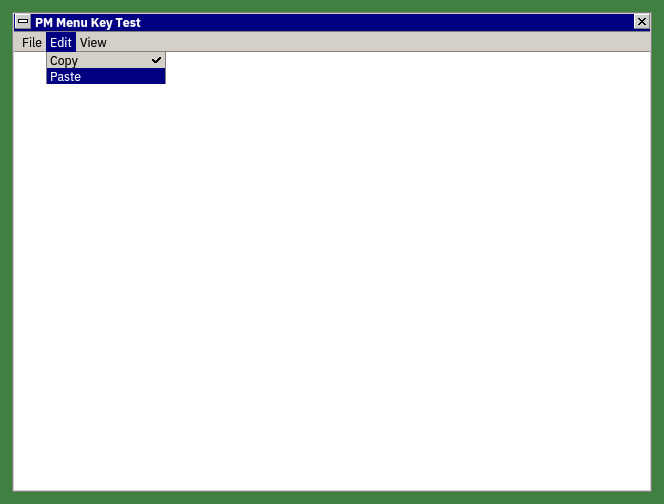
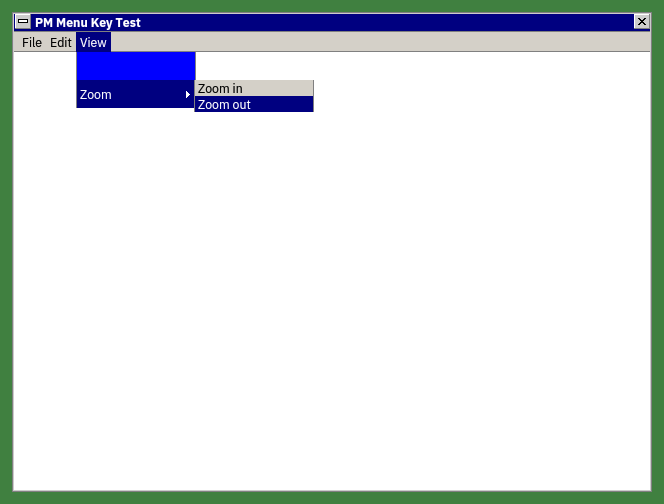
docs(readme): the menu cascade and the circular slider; counts
Claude-Session: https://claude.ai/code/session_01Ux2KKr7puFgrPeFJFk22fL

Changed region(s): [[0.0602, 0.0595, 0.4819, 0.2381]]

diff --git a/README.md b/README.md
@@ -26,10 +26,10 @@ Warpine runs 32-bit OS/2 (LX format) and 16-bit OS/2 1.x (NE format) programs na
 
 | | |
 |---|---|
-| ![PM Menu Key Test window in the classic theme: Edit highlighted in the menu bar (File, Edit, View) and its pull-down dropped, Copy with a check mark at the right and Paste highlighted](doc/screenshots/pm_menukey.png) | ![PM Message Box Test window with an inactive title bar behind a "Message Box Test" box: an information icon, two lines of text and an OK button; the box has a close button but no system menu](doc/screenshots/pm_msgbox.png) |
-| **The menu bar from the keyboard.** F10 started menu mode, Right went to *Edit*, Down dropped its pull-down and moved to *Paste*. *Copy* is checked with `WinCheckMenuItem`; the program hears `WM_INITMENU`, `WM_MENUSELECT` and `WM_MENUEND`, and sizes its owner-drawn *View* item with `WM_MEASUREITEM`. | **Message boxes.** `WinMessageBox` with the information icon over its disabled owner. Without `MB_MOVEABLE` a box has no system menu and stays put; `WinMessageBox2` adds the program's own buttons and icon, and non-modal boxes. |
-| ![PM Built-in Controls Test window: a static label, a Click Me push button, an entry field reading ">>initial textHello, Wörld!", a vertical scroll bar, an empty list box and a multi-line field showing "Line one" and "three" with a caret after "three"](doc/screenshots/pm_controls_typing.png) | ![PM Slider / Value Set Test window: a horizontal slider with a 0 to 5 scale, arrow buttons, a blue ribbon strip and its arm on a detent; a half-filled progress slider; a slider with a red owner-drawn arm; a vertical slider with buttons and ticks; a grid of eight colour items with red selected; a row of value set items with blue selected and an owner-drawn yellow item; and text items Three (selected), a greyed Two and One](doc/screenshots/pm_slider_valueset.png) |
-| **Built-in controls and typing.** The entry field was clicked and typed into (`Hello, Wörld!` at the end, then *Home* and `>>` at the start); in the multi-line field, Enter after "Line one" and `three` started a new line. | **Sliders and value sets.** A scripted session clicked the shaft, dragged the arm, pressed a button and the arrow keys, and Shift+Right moved the arm to a detent; the red arm is drawn by the owner. In the value sets, clicks and keys selected items; "Two" is disabled. |
+| ![PM Menu Key Test window: View highlighted in the menu bar, its pull-down dropped with an owner-drawn blue swatch and a highlighted Zoom row with an arrow, and Zoom's cascade open to the right of it with Zoom in and, highlighted, Zoom out](doc/screenshots/pm_menukey.png) | ![PM Message Box Test window with an inactive title bar behind a "Message Box Test" box: an information icon, two lines of text and an OK button; the box has a close button but no system menu](doc/screenshots/pm_msgbox.png) |
+| **Menus from the keyboard, with a cascade.** F10 started menu mode, Left went to *View*, Down dropped its pull-down (an owner-drawn swatch sized with `WM_MEASUREITEM`), Down and Right opened *Zoom*'s cascade beside its row and Down moved to *Zoom out*. The program hears `WM_INITMENU` for each pull-down and cascade, `WM_MENUSELECT` and `WM_MENUEND`. | **Message boxes.** `WinMessageBox` with the information icon over its disabled owner. Without `MB_MOVEABLE` a box has no system menu and stays put; `WinMessageBox2` adds the program's own buttons and icon, and non-modal boxes. |
+| ![PM Built-in Controls Test window: a static label, a Click Me push button, an entry field reading ">>initial textHello, Wörld!", a vertical scroll bar, an empty list box and a multi-line field showing "Line one" and "three" with a caret after "three"](doc/screenshots/pm_controls_typing.png) | ![PM Circular Slider Test window with two round dials: Volume showing 45, its knob at the right, a heavier edge because it has the focus, tick marks, minus and plus buttons at its lower corners and its caption under it; Heading showing 180, its knob at the bottom, tick marks all around and a caption, without buttons](doc/screenshots/pm_circslider.png) |
+| **Built-in controls and typing.** The entry field was clicked and typed into (`Hello, Wörld!` at the end, then *Home* and `>>` at the start); in the multi-line field, Enter after "Line one" and `three` started a new line. | **Circular sliders.** `WC_CIRCULARSLIDER` dials turned in a scripted session: Volume (range 0–50, steps of 5) with Right, Page Up, End and its − / + buttons; Heading (`CSS_360`, `CSS_POINTSELECT`) with a press and a drag. The owner hears `CSN_TRACKING`, `CSN_CHANGED` and `CSN_SETFOCUS`. |
 | ![The "Container trees and grids" window: on the left a tree view with dotted tree lines, a folder "Alpha" with Gamma, A1 and A2 (expanded, holding A21), an expanded "Beta" with items b01 to b11 and a vertical scroll bar; on the right an icon view with six page icons, One, Two, Three, Four, Five and Under, laid out on a grid](doc/screenshots/pm_cnrgrid.png) | ![PM Font Test window: lines in IBM Plex Sans, Sans Bold, Mono, Serif Italic 24 and Serif Bold Italic 32, then Japanese, simplified and traditional Chinese and Korean lines and a 24-px mixed line, each underlined in red](doc/screenshots/pm_font_test.png) |
 | **Container trees and grids.** `WC_CONTAINER` in the tree view with tree lines and expanders (`CA_TREELINE`), and in the icon view arranged on a grid (`CM_SETGRIDINFO`, `CMA_ARRANGEGRID`). Context menus (`WM_CONTEXTMENU`) and the mouse wheel reach containers too. | **Typography.** Presentation Manager text is drawn in the embedded IBM Plex families: fonts chosen with `GpiCreateLogFont` (face, bold, italic, size) and CJK text in four DBCS codepages. The red rules are the widths reported by `GpiQueryTextBox`. |
 | ![The built-in CMD.EXE in a "Warpine — CMD.EXE" frame on the PM desktop: ver naming version 0.0.13, mkdir PROJECTS, echo … > HELLO.TXT, a dir listing showing PROJECTS and the 33-byte HELLO.TXT on drive C:, and type HELLO.TXT printing "Hello from the built-in CMD.EXE"](doc/screenshots/cmd_window.png) |   |
@@ -48,14 +48,14 @@ Warpine runs 32-bit OS/2 (LX format) and 16-bit OS/2 1.x (NE format) programs na
 - **More GPI** — rounded box corners, line ends and joins, scaled line widths, rotated glyphs and images under transforms, palettes, and drawing through a child window's presentation space are not implemented.
 - **Games and video** — DIVE (direct framebuffer blitting) and OpenGL are not implemented yet; the spooler reports no printers.
 
-_Screenshots captured from uncommitted changes on top of `3a1433d` on 2026-11-23 (the menu and modern-theme ones; the others from uncommitted changes on top of `848a01b`); the text window at the top from uncommitted changes on top of `8f820e1` on 2026-11-20._
+_The menu and circular-slider screenshots captured from commit `0f27fce` on 2026-11-23, the modern-theme one from uncommitted changes on top of `3a1433d` and the others from uncommitted changes on top of `848a01b`; the text window at the top from uncommitted changes on top of `8f820e1` on 2026-11-20._
 <!-- screenshots:end -->
 
 ## Key Features
 
 - **LX Executable Parser:** Full support for LX headers, object tables, page maps, fixups, resource tables, import tables, entry tables, and non-resident names tables.
 - **KVM Hypervisor:** Custom VMM executing 32-bit OS/2 code at native speed via hardware-accelerated virtualization.
-- **API Thunking:** System call interception via `INT 3` traps bridging guest OS/2 calls to host Rust implementations. Covers DOSCALLS, QUECALLS, PMWIN, PMGPI, KBDCALLS, VIOCALLS, MOUCALLS, NLS, MSG, MDM (MMPM/2), UCONV, SO32DLL, TCP32DLL, PMSHAPI, HELPMGR, PMSPL, PMCTLS, PMDRAG, SOM, REXX / REXXAPI and PMWP's window positions, plus Warpine's own WARPINE.DLL — 887 entry points in all (`--compat` lists them).
+- **API Thunking:** System call interception via `INT 3` traps bridging guest OS/2 calls to host Rust implementations. Covers DOSCALLS, QUECALLS, PMWIN, PMGPI, KBDCALLS, VIOCALLS, MOUCALLS, NLS, MSG, MDM (MMPM/2), UCONV, SO32DLL, TCP32DLL, PMSHAPI, HELPMGR, PMSPL, PMCTLS, PMDRAG, SOM, REXX / REXXAPI and PMWP's window positions, plus Warpine's own WARPINE.DLL — 894 entry points in all (`--compat` lists them).
 - **DLL Loader Chain:** Runtime dynamic loading via `DosLoadModule` / `DosQueryProcAddr` / `DosQueryModuleHandle`. User DLLs are loaded into guest memory with rebased objects and export maps. Exports are found by ordinal and by name in both names tables, and `_DLL_InitTerm` routines run at start and in `DosLoadModule`.
 - **Multi-Threading:** OS/2 threads mapped 1:1 to host threads, each with its own KVM vCPU; ending a thread ends only that thread, `DosWaitThread` / `DosKillThread` / `DosSuspendThread` / `DosResumeThread` follow the Control Program Reference, a thread spinning in its own code can be stopped (each vCPU can be kicked out of the guest), signal exceptions reach thread 1, and vCPUs of ended threads are reused.
 - **Presentation Manager (GUI):** Window management, message loop, graphics primitives (drawn on the calling thread, so `GpiQueryPel` reads pixels back and `GpiSetMix` raster operations such as XOR combine with what is there), memory presentation spaces, bitmaps (`GpiCreateBitmap`, `GpiLoadBitmap`) and `GpiBitBlt` with raster operations and stretching, logical colour tables, polylines, regions and clipping, areas, paths, polygons and curves, presentation-space state with save / restore, coordinate transforms and page units, text layout with character angle, shear and direction, `WinDrawText`, update rectangles with `WinScrollWindow` and `WinDrawBorder`, the rectangle helpers, interactive scroll bars, the standard file and font dialogs, the switch list, atom tables and DDE within a program, combination boxes, spin buttons, sliders, value sets, owner-drawn list boxes, menu items and buttons, static icons and bitmaps, presentation parameters (colours and fonts), hooks and message broadcasts, frame controls, accelerator tables made at run time, the text cursor, window lookups (`WinMapWindowPoints`, `WinWindowFromPoint`, `WinEnumDlgItem` …), key state, system colours, timers, clipboard, dialogs, menus, and resource loading via SDL. Each window is kept as its own texture and drawn by the platform's accelerated SDL renderer with vsync, so moving windows costs no redrawing (`WARPINE_COMPOSITOR=software` composites on the CPU instead). `WARPINE_THEME=modern` draws frames with rounded corners, a soft shadow and flat chrome (only the look changes, never what programs see).
@@ -415,7 +415,7 @@ gdb -ex 'symbol-file samples/c_gdb_test/c_gdb_test.dbg' -ex 'target remote :1234
 
 ### 10. Run tests and lint
 ```bash
-cargo test                        # 2344 unit tests (no KVM required)
+cargo test                        # 2351 unit tests (no KVM required)
 cargo test --test integration     # 210 end-to-end tests (requires /dev/kvm)
 cargo clippy --all-targets -- -D warnings  # Lint, test code included — must pass with zero warnings
 ```
